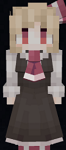
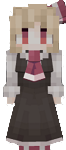
增加背景图，并实现贴图去底

Changed region(s): [[0.0, 0.0, 0.9091, 1.0], [0.7576, 0.1333, 1.0, 1.0], [0.9394, 0.0, 1.0, 0.0533]]

diff --git a/Gameinterface.cpp b/Gameinterface.cpp
@@ -455,6 +455,8 @@ void DanmakuGameInterface::Draw() {
         item->Draw();
     }
 
+    setbkmode(TRANSPARENT);  // 去掉文字黑底
+
     // ========== 绘制右侧 UI 面板 ==========
     int uiX = GAME_AREA_RIGHT;
     int uiWidth = SCREEN_WIDTH - GAME_AREA_RIGHT;
@@ -565,18 +567,24 @@ void DanmakuGameInterface::Draw() {
 
     // ========== 游戏结束画面 ==========
     if (!gameRunning) {
-        // 半透明遮罩
-        //setfillcolor(RGB(0, 0, 0));
-        //fillrectangle(0, 0, SCREEN_WIDTH, SCREEN_HEIGHT);
+        // 设置文字背景透明（关键）
+        setbkmode(TRANSPARENT);
 
-        settextstyle(40, 0, _T("微软雅黑"));
-        settextcolor(RGB(255, 0, 0));
-        outtextxy( GAME_AREA_RIGHT/ 2 - 100, SCREEN_HEIGHT / 2 - 60, _T("GAME OVER"));
+        settextstyle(48, 0, _T("微软雅黑"));
+        settextcolor(RGB(255, 50, 50));
+        outtextxy(GAME_AREA_RIGHT / 2 - 120, SCREEN_HEIGHT / 2 - 80, _T("G A M E   O V E R"));
 
         settextstyle(20, 0, _T("微软雅黑"));
-        settextcolor(RGB(255, 255, 255));
-        outtextxy(GAME_AREA_RIGHT / 2 - 100, SCREEN_HEIGHT / 2, _T("按 R 键重新开始"));
-        outtextxy(GAME_AREA_RIGHT / 2 - 100, SCREEN_HEIGHT / 2 + 35, _T("按 ESC 键返回菜单"));
+        settextcolor(RGB(1, 1, 1));
+        outtextxy(GAME_AREA_RIGHT / 2 - 100, SCREEN_HEIGHT / 2 - 20, _T("按 R 键重新开始"));
+        outtextxy(GAME_AREA_RIGHT / 2 - 100, SCREEN_HEIGHT / 2 + 15, _T("按 ESC 键返回菜单"));
+
+        TCHAR scoreText[64];
+        _stprintf_s(scoreText, _T("最 终 得 分 :  %d"), score);
+        outtextxy(GAME_AREA_RIGHT / 2 - 100, SCREEN_HEIGHT / 2 + 60, scoreText);
+
+        // 恢复默认背景模式（可选）
+        setbkmode(OPAQUE);
     }
 }
 

diff --git a/Maininterface.cpp b/Maininterface.cpp
@@ -44,8 +44,10 @@ void Maininterface::Draw()
 
 	RECT rect{ 0, 0, 1000, 200 };
 	LOGFONT style;
+	setbkmode(TRANSPARENT);
 	gettextstyle(&style);
 	settextstyle(60, 0, L"Consolas");
+	settextcolor(RGB(1, 1, 1));
 	drawtext(L"DANMAKU GAME", &rect, DT_CENTER | DT_VCENTER | DT_SINGLELINE);
 	settextstyle(&style);
 

diff --git a/Enemy.cpp b/Enemy.cpp
@@ -1,5 +1,8 @@
 #include "Enemy.h"
 #include "Global.h"
+
+
+
 Enemy::Enemy(double x, double y, EnemyMove move)
 	: Gameobject(28, 28), hp(30), radius(14), shootCooldown(0),bulletType(EnemyBulletType::NORMAL)
 {
